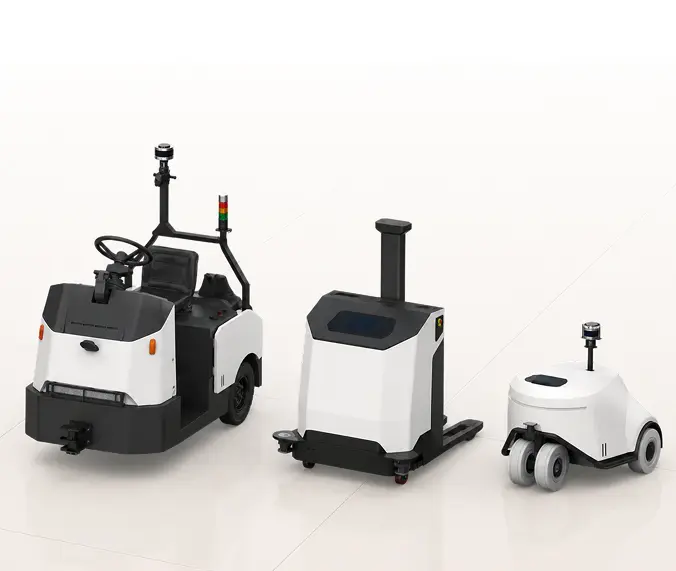
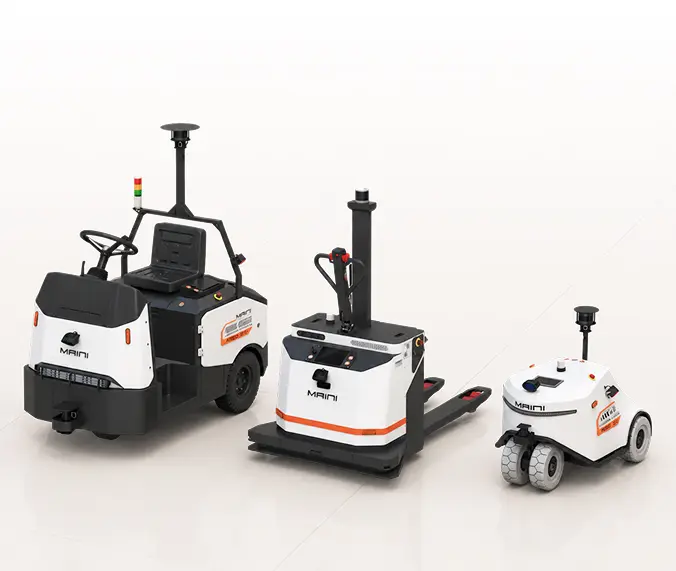
Add mobile responsiveness pass and small visual polish
Adds mobile breakpoints for the hero, challenges diagram, buttons, and
base typography scale; tightens the Legacy metric card alignment,
lightens the header dropdown panel, and updates the AMR10 compact
footprint icon and material-mobility hero image.

Changed region(s): [[0.0311, 0.2084, 0.9941, 0.8634]]

diff --git a/src/components/home/css/Hero.module.css b/src/components/home/css/Hero.module.css
@@ -82,3 +82,43 @@
   gap: 16px;
   flex-wrap: wrap;
 }
+
+/* ── Mobile ────────────────────────────────────────────────────────────────── */
+@media (max-width: 768px) {
+  .section {
+    height: 100svh;
+  }
+
+  .section::after {
+    background: linear-gradient(0deg, #0e1214 0%, #0e1214 27%, rgba(14, 18, 20, 0) 51%, #0e1214 73%);
+  }
+
+  .content {
+    padding-top: 0;
+    padding-bottom: 48px;
+    padding-left: 20px;
+    padding-right: 20px;
+    justify-content: flex-end;
+    gap: 40px;
+  }
+
+  .heading {
+    margin-left: 0;
+  }
+
+  .bottom {
+    flex-direction: column;
+    align-items: stretch;
+    gap: 32px;
+  }
+
+  .scrollHint {
+    display: none;
+  }
+
+  .cta {
+    flex-direction: column;
+    align-items: flex-start;
+    gap: 20px;
+  }
+}

diff --git a/src/app/globals.css b/src/app/globals.css
@@ -115,6 +115,27 @@
   letter-spacing: 0em;
 }
 
+/* Source: Figma › Styles and elements → Text styles → Mobile */
+@media (max-width: 768px) {
+  .heading-1 {
+    font-size: 40px;
+    line-height: 1.1;
+  }
+
+  .label-1 {
+    font-size: 13px;
+  }
+
+  .heading-2 {
+    font-size: 25px;
+    line-height: 1.1;
+  }
+
+  .body-1 {
+    font-size: 14px;
+  }
+}
+
 /* ─── Color tokens ───────────────────────────────────────────────────────────
    Source: Figma › Modes → colors → selections
    ─────────────────────────────────────────────────────────────────────────── */

diff --git a/src/components/home/css/Challenges.module.css b/src/components/home/css/Challenges.module.css
@@ -39,3 +39,24 @@
   object-fit: cover;
 }
 
+/* ── Mobile ────────────────────────────────────────────────────────────────── */
+@media (max-width: 768px) {
+  .section {
+    padding-top: 64px;
+  }
+
+  .titleSection {
+    padding: 0 14px;
+    gap: 16px;
+  }
+
+  .diagram {
+    margin-top: 40px;
+    /* Taller than the video's native 1512:511 ratio so the diagram reads
+       at a reasonable size on a narrow screen, but not so tall that
+       object-fit: cover has to zoom in far enough to crop the radar
+       disc off the sides. */
+    aspect-ratio: 320 / 145;
+  }
+}
+

diff --git a/src/components/home/css/Legacy.module.css b/src/components/home/css/Legacy.module.css
@@ -148,11 +148,21 @@
   padding: 30px 60px;
   display: flex;
   flex-direction: column;
+  align-items: flex-start;
   justify-content: space-between;
   min-height: 253px;
   text-transform: uppercase;
+  text-align: left;
+}
+
+.metricCard:last-child p:last-child {
+  max-width: 200px;
 }
 
 .trustedBy {
   width: 100%;
+}
+
+.trustedBy p{
+  text-transform: uppercase;
 }

diff --git a/src/components/ui/Button.module.css b/src/components/ui/Button.module.css
@@ -27,6 +27,12 @@
   );
 }
 
+@media (max-width: 768px) {
+  .button {
+    font-size: 13px;
+  }
+}
+
 /* ─── Sizes — matches Figma component names ──────────────────────────────── */
 .Button_1 {
   padding: 15px 24px; /* results in ~49px total height */

diff --git a/src/components/layout/Header.module.css b/src/components/layout/Header.module.css
@@ -151,7 +151,7 @@
 /* Over a light header theme, invert to a dark frosted panel so the white
    link text stays legible against whatever light section sits behind it. */
 .header[data-theme="light"] .dropdown {
-  background: rgba(14, 18, 20, 0.75);
+  background: rgba(14, 18, 20, 0.369);
 }
 
 .dropdownOpen {
